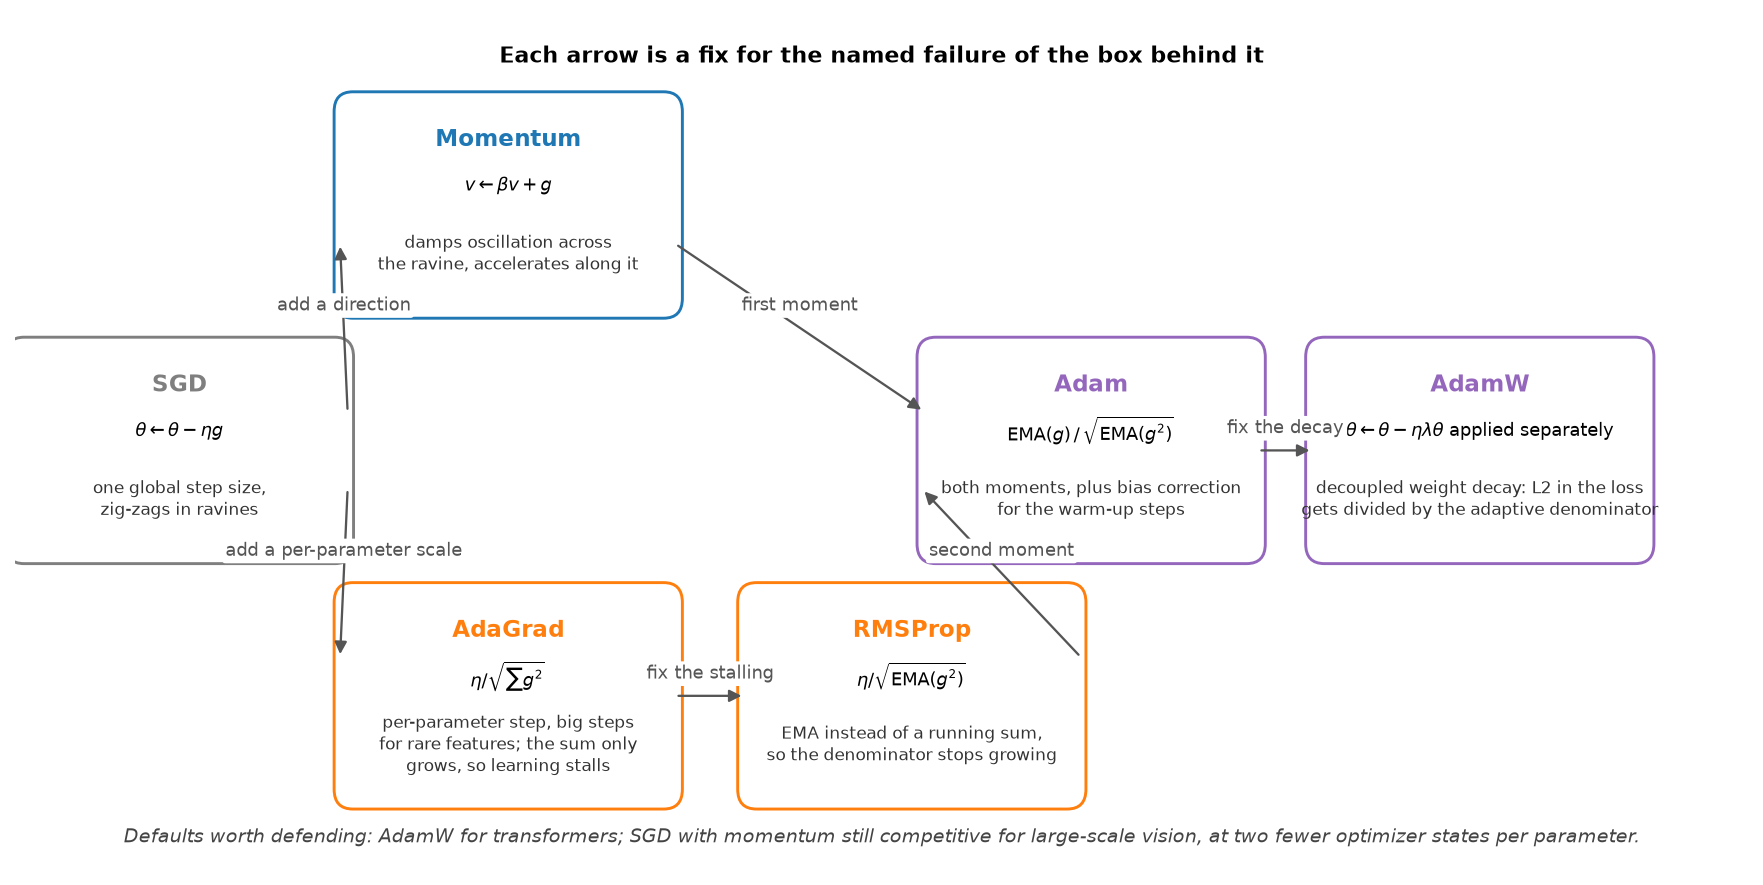
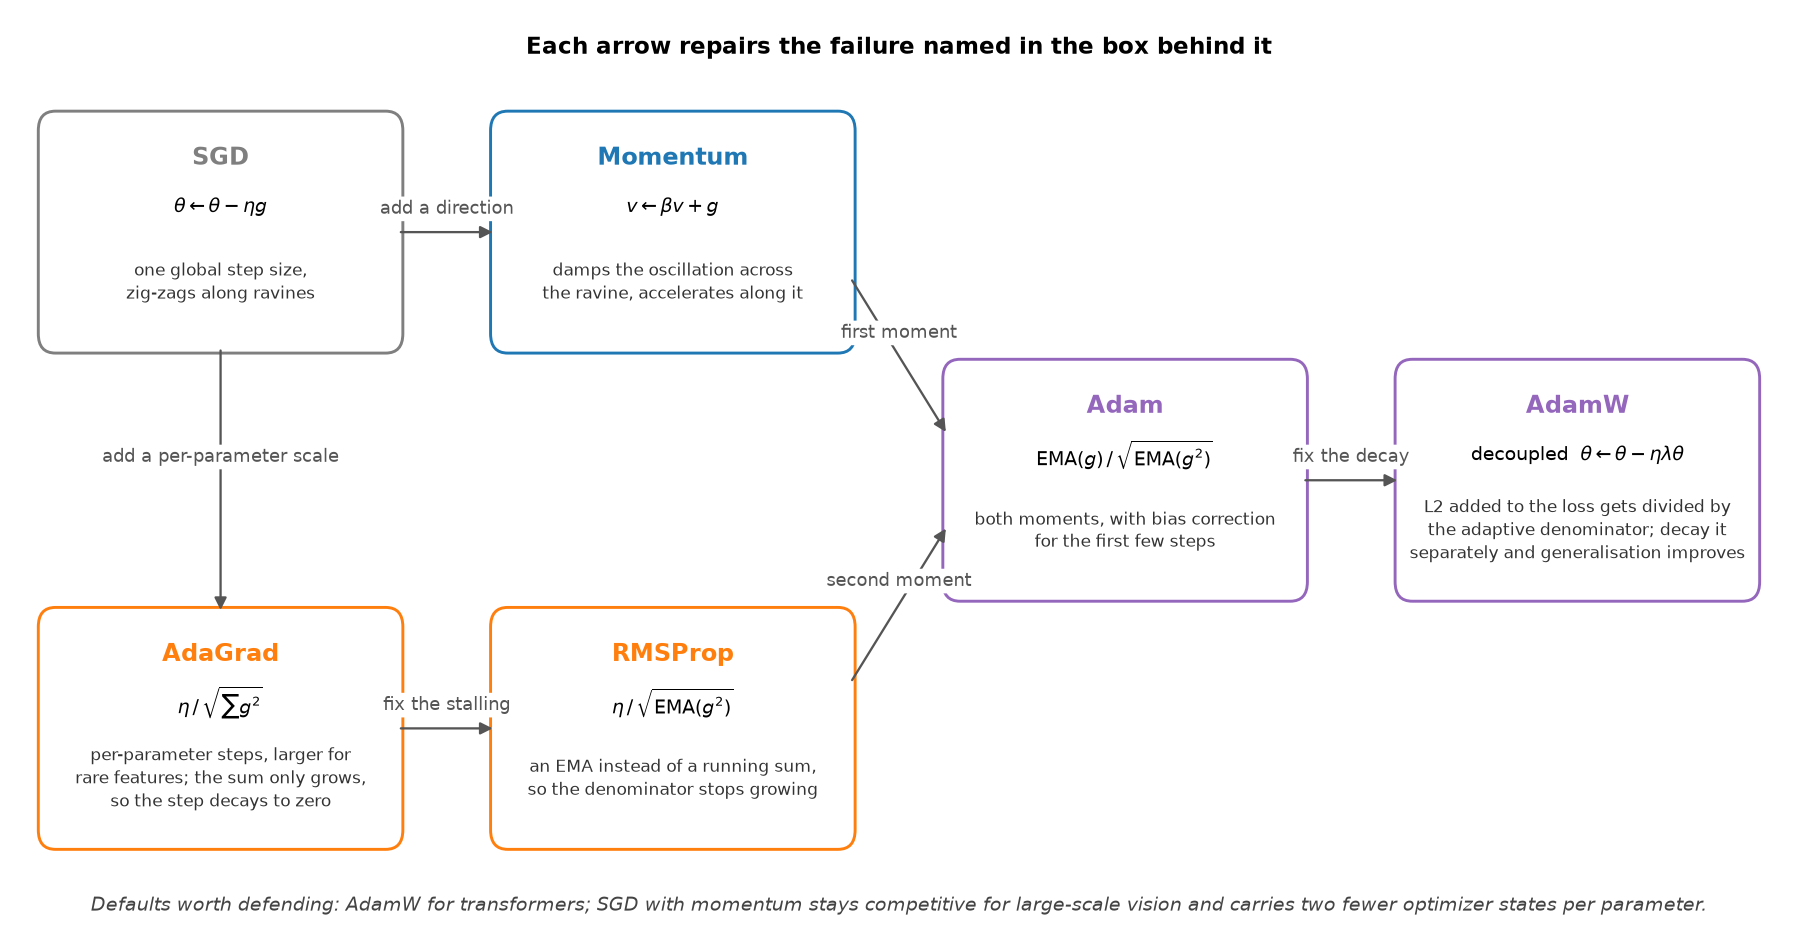
Use a token placeholder when stripping inline code in the structure checker
Claude-Session: https://claude.ai/code/session_015H27xcFqfnuEV6DfXzrQek

diff --git a/figures/part19_optimizer_lineage.py b/figures/part19_optimizer_lineage.py
@@ -25,7 +25,7 @@ NODES = [
      "one global step size,\nzig-zags along ravines", 3.0, 8.6, GREY),
     ("Momentum", r"$v \leftarrow \beta v + g$",
      "damps the oscillation across\nthe ravine, accelerates along it", 9.6, 8.6, BLUE),
-    ("AdaGrad", r"$\eta\,/\,\sqrt{\textstyle\sum g^2}$",
+    ("AdaGrad", r"$\eta\,/\,\sqrt{\sum g^2}$",
      "per-parameter steps, larger for\nrare features; the sum only grows,\nso the step decays to zero", 3.0, 2.2, ORANGE),
     ("RMSProp", r"$\eta\,/\,\sqrt{\mathrm{EMA}(g^2)}$",
      "an EMA instead of a running sum,\nso the denominator stops growing", 9.6, 2.2, ORANGE),

diff --git a/scripts/check_markdown.py b/scripts/check_markdown.py
@@ -90,7 +90,7 @@ def check(path: Path) -> list[str]:
         #    a display-math block is correct mathematical writing, so flag only a
         #    paragraph-final one that is not a lead-in to $$ or a list.
         # inline code holds slices like [::2, ::2] and paths; not prose
-        raw_prose = re.sub(r"`[^`]*`", " ", raw)
+        raw_prose = re.sub(r"`[^`]*`", "CODE", raw)
         stripped = raw_prose.strip()
         has_math = "$" in raw
         nxt = lines[i + 1].strip() if i + 1 < len(lines) else ""

diff --git a/docs/part07-post-training/06-test-time-compute.md b/docs/part07-post-training/06-test-time-compute.md
@@ -94,7 +94,7 @@ to leading order. Combining with §2.2, the proxy reward gained per nat of KL sp
 
 This is a statement about the *proxy*. Gao et al.'s measured gold reward for best-of-N follows $d(\alpha - \beta\log d)$ with $d = \sqrt{\KL}$, rising then falling, so past some $N$ the true quality degrades even though the RM score keeps climbing (chapter 2 §2.5).
 
-With a **verifier** rather than an RM, there is no proxy gap. Accuracy is $1 - (1-p)^N$ for a per-sample success rate $p$, monotone in $N$, saturating at 1. The cost of more samples is money and latency, not quality.
+With a **verifier** rather than an RM, there is no proxy gap. Accuracy is $1 - (1-p)^N$ for a per-sample success rate $p$, monotone in $N$, saturating at 1. More samples cost money and latency. They never cost quality.
 
 ### 2.4 Self-consistency
 
@@ -183,7 +183,7 @@ def beam_search(model, prompt, beam_width, max_new_tokens, eos_id):
     return finished[:beam_width]
 ```
 
-Scores are summed log-probabilities, so the search is length-unnormalised and biased toward short sequences; production beam search divides by $|y|^\alpha$ to compensate. Beams that emit EOS move to `finished` and stop expanding. The test compares the top beam against brute-force enumeration of all $V^2$ two-token continuations, which pins the search down exactly rather than checking a property.
+Scores are summed log-probabilities, so the search is length-unnormalised and favours short sequences. Production beam search divides by $|y|^\alpha$ to compensate. Beams that emit EOS move to `finished` and stop expanding. The test compares the top beam against brute-force enumeration of all $V^2$ two-token continuations, which pins the search down exactly rather than checking a property.
 
 **How you'd test it.** Check `bon_kl_bound(1) == 0` and the exact value at $N = 4$. Check the returned best-of-N response really is the argmax of the returned rewards and that prompt tokens are never marked as response. Check the self-consistency winner has the maximum vote count and the votes sum to $N$. Check beam search returns sorted beams and that its top scorer matches exhaustive search to $10^{-4}$. In `tests/test_posttrain_test_time.py`.
 
@@ -210,7 +210,7 @@ The derivation in §2.2 is worth more interview marks than the code, so do it on
 
 **Latency.** Parallel methods (self-consistency, best-of-N) add throughput cost without adding serial latency, as long as you have the capacity to run $N$ streams concurrently. Sequential methods (revision, agentic loops, MCTS rollouts) add latency directly, one full generation per round. For an interactive product that distinction usually decides the design.
 
-**Scoring cost.** Best-of-N with a 70B RM scoring $N=64$ responses of 1k tokens is $64 \times 10^3 \times 2 \times 70\mathrm{B} \approx 9\times10^{15}$ FLOPs per query, which can exceed the generation cost. Use a smaller RM, score only the final answer rather than the whole chain, or prune candidates early.
+**Scoring cost.** Best-of-N with a 70B RM scoring $N=64$ responses of 1k tokens is $64 \times 10^3 \times 2 \times 70\mathrm{B} \approx 9\times10^{15}$ FLOPs per query, which can exceed the generation cost. Options: a smaller RM, scoring only the final answer instead of the whole chain, or pruning candidates early with a cheap filter.
 
 **Failure modes.**
 

diff --git a/docs/part18-company-deep-dives/tesla.md b/docs/part18-company-deep-dives/tesla.md
@@ -209,6 +209,12 @@ The general theory (pseudo-labels from a stronger offline teacher, label-noise
 handling, active selection) lives in
 [Weak supervision & auto-labelling](../part10-self-supervised/03-weak-supervision-and-auto-labeling.md).
 
+![The AV data-engine flywheel](../assets/figures/part18_av_data_engine_flywheel.png){ width="640" }
+
+The two dashed arrows are the part that decides iteration speed: evaluation results
+feed back into both the trigger library and the training set, so a failure found in
+shadow mode becomes a collection campaign rather than a bug report.
+
 **The trade-off.** A large, slow offline model plus reconstruction gives labels no
 annotator could draw (dense geometry, kinematics across occlusion) and a marginal cost
 per clip that falls with automation; the price is systematic errors that propagate

diff --git a/docs/part18-company-deep-dives/scale-ai-data-engines.md b/docs/part18-company-deep-dives/scale-ai-data-engines.md
@@ -123,6 +123,12 @@ finds hard. Both [Tesla's auto-labelling pipeline](tesla.md#33-the-data-engine-a
 and the academic version (Uber ATG's Auto4D, which refines 4D object labels from
 sequential point clouds) describe the same trade.
 
+![The AV data-engine flywheel](../assets/figures/part18_av_data_engine_flywheel.png){ width="640" }
+
+A vendor sells stages three through six of that loop. The customer keeps the trigger
+policy and the deployment decision, which is why the interesting conversations with a
+vendor are about which clips to send, not about price per box.
+
 Two failure modes come with it. The first is **anchoring**: a reviewer shown a
 plausible wrong pre-label accepts it more often than they would have produced it. The
 fix is to measure it, by routing a sample of tasks with deliberately perturbed

diff --git a/docs/part03-neural-nets/06-regularization.md b/docs/part03-neural-nets/06-regularization.md
@@ -25,10 +25,10 @@
 A model generalises when what it learned about the training set also holds off it.
 Every regulariser in this chapter is one of three moves:
 
-1. **Add noise** so the model cannot rely on any single fragile pathway, dropout,
+1. **Add noise** so the model cannot rely on any single fragile pathway: dropout,
    stochastic depth, data augmentation.
-2. **Shrink the hypothesis** toward something simple, weight decay, early stopping.
-3. **Soften the target** so the model is not pushed to infinite confidence, label
+2. **Shrink the hypothesis** toward something simple: weight decay, early stopping.
+3. **Soften the target** so the model is not pushed to infinite confidence: label
    smoothing, mixup's soft labels.
 
 The concrete picture for dropout: on each minibatch, half the hidden units are

diff --git a/docs/part18-company-deep-dives/waymo.md b/docs/part18-company-deep-dives/waymo.md
@@ -34,6 +34,13 @@
   Prevention, 2025); the 2020 safety-methodologies paper; the Safety Case approach.
 - Fleet Response gives *guidance*, and explicitly not remote driving (May 2024 blog).
 
+![Publicly announced architecture shifts at Tesla and Waymo](../assets/figures/part18_architecture_timeline.png){ width="720" }
+
+Waymo's public lane on the timeline moves through datasets, prediction papers and
+simulators before it reaches end-to-end research, which is the opposite order from
+Tesla's. Placing a question on this timeline ("that was the Wayformer era, MotionLM
+changed the factorisation") is itself a signal in the room.
+
 ## 1. The business in one paragraph
 
 Waymo, Alphabet's autonomous-driving subsidiary, operates a commercial rider-only
